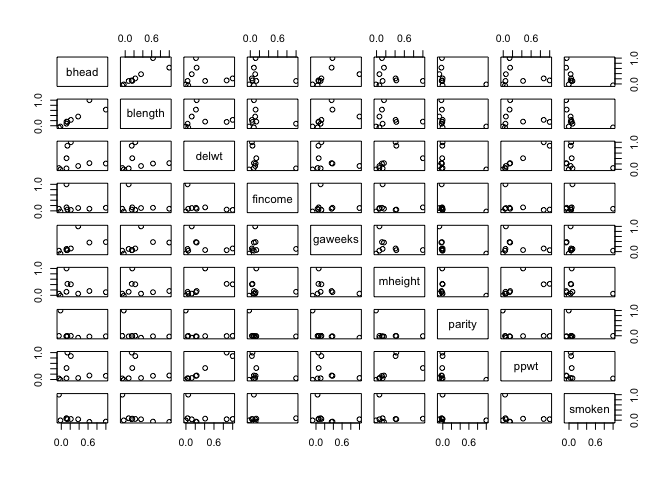
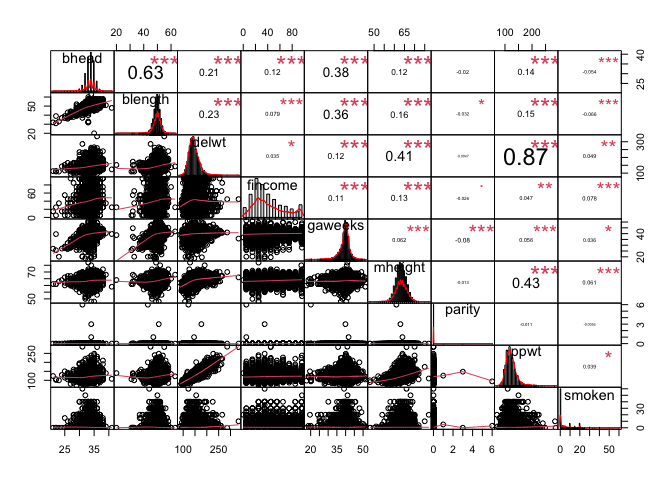
fix an error so that i can knit

diff --git a/p8105_hw6_fx2184.md b/p8105_hw6_fx2184.md
@@ -483,12 +483,142 @@ summary(model_fit1)
     ## Multiple R-squared:  0.7181, Adjusted R-squared:  0.7173 
     ## F-statistic: 848.1 on 13 and 4328 DF,  p-value: < 2.2e-16
 
+-   From the table, I could tell the `fincome` has p value \>0.05, so
+    it’s not significant at level of 0.05 and I will drop this variable.
+
 ``` r
 # explore the collinearity among selected continous variables. 
-fit_variable = birthweight %>%
+birthweight %>%
   select(bhead, blength, delwt, fincome, gaweeks, mheight, parity, ppwt, smoken) %>% 
-  cor() %>% 
-  pairs()
+  PerformanceAnalytics::chart.Correlation(method = "pearson")
 ```
 
 ![](p8105_hw6_fx2184_files/figure-gfm/unnamed-chunk-10-1.png)<!-- -->
+
+-   From the correlation scatter polt, we could conclude there is a
+    potential collinearity between `delwt` and `ppwt` and also between
+    `bhead` and `blength`.
+-   Then, I will remove `ppwt` and `blength` from my model, whose
+    p-values are larger in my model.
+
+``` r
+mult_fit_2 = lm(bwt ~  babysex + bhead + delwt  + gaweeks + mheight + mrace + parity + smoken,
+              data=birthweight)
+summary(mult_fit_2)
+```
+
+    ## 
+    ## Call:
+    ## lm(formula = bwt ~ babysex + bhead + delwt + gaweeks + mheight + 
+    ##     mrace + parity + smoken, data = birthweight)
+    ## 
+    ## Residuals:
+    ##      Min       1Q   Median       3Q      Max 
+    ## -1116.19  -210.65    -3.58   200.63  2178.92 
+    ## 
+    ## Coefficients:
+    ##                     Estimate Std. Error t value Pr(>|t|)    
+    ## (Intercept)       -5298.2546   156.2679 -33.905  < 2e-16 ***
+    ## babysexmale         -21.2733     9.7599  -2.180   0.0293 *  
+    ## bhead               199.8843     3.3751  59.224  < 2e-16 ***
+    ## delwt                 2.7566     0.2423  11.375  < 2e-16 ***
+    ## gaweeks              20.8795     1.6628  12.557  < 2e-16 ***
+    ## mheight               9.2046     2.0236   4.549 5.55e-06 ***
+    ## mraceBlack         -173.6867    10.6120 -16.367  < 2e-16 ***
+    ## mraceAsian          -71.8091    48.7970  -1.472   0.1412    
+    ## mracePuerto Rican  -129.9751    22.0460  -5.896 4.02e-09 ***
+    ## parity               81.4385    46.5536   1.749   0.0803 .  
+    ## smoken               -6.6212     0.6734  -9.833  < 2e-16 ***
+    ## ---
+    ## Signif. codes:  0 '***' 0.001 '**' 0.01 '*' 0.05 '.' 0.1 ' ' 1
+    ## 
+    ## Residual standard error: 314.5 on 4331 degrees of freedom
+    ## Multiple R-squared:  0.6238, Adjusted R-squared:  0.623 
+    ## F-statistic: 718.3 on 10 and 4331 DF,  p-value: < 2.2e-16
+
+-   In this new model, the `parity` has p value = 0.0803 which is higher
+    than 0.05, meanding there is no association between parity and baby
+    birthweight on the level of significance 0.05. So, i will drop
+    `parity` as well.
+-   My final model would be
+    `bwt =  babysex + bhead + delwt  + gaweeks + mheight + mrace + smoken`.
+
+## Model Comparision
+
+``` r
+multi_fit_3 = lm(bwt ~ babysex + bhead + delwt + gaweeks + mheight + mrace + smoken, data = birthweight)
+summary(multi_fit_3)
+```
+
+    ## 
+    ## Call:
+    ## lm(formula = bwt ~ babysex + bhead + delwt + gaweeks + mheight + 
+    ##     mrace + smoken, data = birthweight)
+    ## 
+    ## Residuals:
+    ##      Min       1Q   Median       3Q      Max 
+    ## -1116.93  -210.80    -3.68   201.53  2179.56 
+    ## 
+    ## Coefficients:
+    ##                     Estimate Std. Error t value Pr(>|t|)    
+    ## (Intercept)       -5288.6892   156.2094 -33.856  < 2e-16 ***
+    ## babysexmale         -21.7498     9.7584  -2.229   0.0259 *  
+    ## bhead               199.9740     3.3755  59.243  < 2e-16 ***
+    ## delwt                 2.7599     0.2424  11.386  < 2e-16 ***
+    ## gaweeks              20.6460     1.6578  12.454  < 2e-16 ***
+    ## mheight               9.1518     2.0239   4.522 6.29e-06 ***
+    ## mraceBlack         -173.7660    10.6144 -16.371  < 2e-16 ***
+    ## mraceAsian          -71.9106    48.8086  -1.473   0.1407    
+    ## mracePuerto Rican  -130.4461    22.0496  -5.916 3.55e-09 ***
+    ## smoken               -6.6232     0.6735  -9.834  < 2e-16 ***
+    ## ---
+    ## Signif. codes:  0 '***' 0.001 '**' 0.01 '*' 0.05 '.' 0.1 ' ' 1
+    ## 
+    ## Residual standard error: 314.5 on 4332 degrees of freedom
+    ## Multiple R-squared:  0.6236, Adjusted R-squared:  0.6228 
+    ## F-statistic: 797.4 on 9 and 4332 DF,  p-value: < 2.2e-16
+
+``` r
+# Model using length at birth and gestational age as predictors (main effects only)
+comp_fit_1 = lm(bwt ~ blength + gaweeks, data = birthweight)
+# Model using head circumference, length, sex, and all interactions (including the three-way interaction) between these
+comp_fit_2 = lm(bwt ~ bhead + blength + babysex + bhead * blength + bhead * babysex + blength * babysex + bhead * blength * babysex, data = birthweight)
+
+# cross-validation 
+cv_df = crossv_mc(birthweight, 100) %>% 
+  mutate(train = map(train, as_tibble),
+         test = map(test, as_tibble)) %>% 
+ mutate(
+        model_1 = map(train, ~lm(bwt ~ babysex + bhead + delwt + gaweeks + mheight + mrace + smoken, data = as_tibble(.x))),
+        model_2 = map(train, ~lm(bwt ~ blength + gaweeks, data = .x)),
+        model_3 = map(train, ~lm(bwt ~ bhead + blength + babysex + bhead*blength + bhead*babysex + blength*babysex + bhead*blength*babysex, data = .x))) %>% 
+  mutate(
+    rmse_1 = map2_dbl(model_1, test, ~rmse(model = .x, data = .y)),
+    rmse_2 = map2_dbl(model_2, test, ~rmse(model = .x, data = .y)),
+    rmse_3 = map2_dbl(model_3, test, ~rmse(model = .x, data = .y)))
+# root mean square error in 3 models 
+cv_df %>% 
+    select(starts_with("rmse")) %>% 
+    pivot_longer(
+      everything(),
+      names_to = "model", 
+      values_to = "rmse",
+      names_prefix = "rmse_") %>% 
+    mutate(model = fct_inorder(model)) %>% 
+    ggplot(aes(x = model, y = rmse)) + 
+    geom_boxplot() +
+    labs(
+         title = "Prediction Error Distributions across Models",
+         x = "Models", 
+         y = "Root Mean Square Error")+
+    scale_x_discrete(
+        labels = c("My Model", "Test Model 1", "Test Model 2")) +
+    theme(plot.title = element_text(hjust = 0.5, face = "bold"))
+```
+
+![](p8105_hw6_fx2184_files/figure-gfm/unnamed-chunk-13-1.png)<!-- -->
+
+-   From this boxplot, the test model 2 has the lowest RMSE, followed by
+    my model and test model 1 has the highest RMSE. Therefore, test
+    model 1 is potentially the best model among these three models,
+    which we could do some futher investgation.
